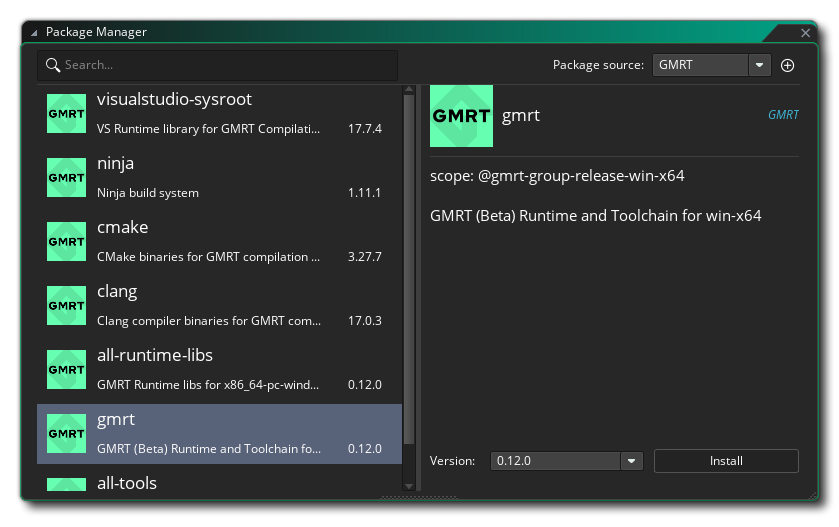
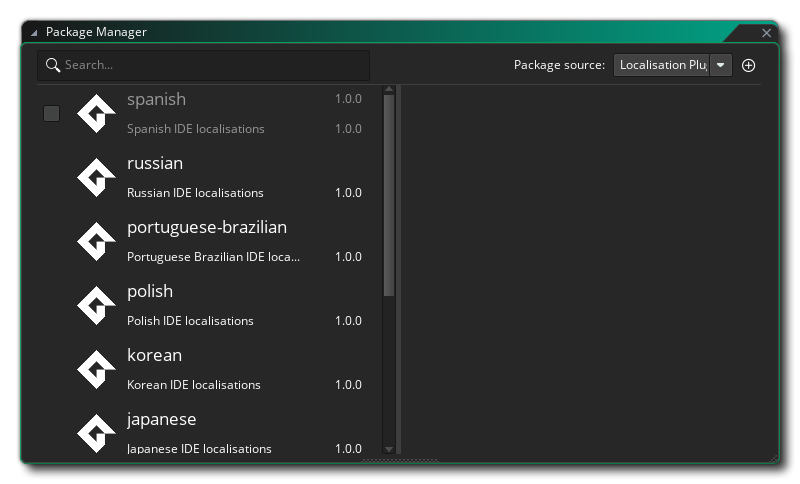
docs(feature): Marked package manager as non-beta https://github.com/YoYoGames/GameMaker-Manual/issues/219

Changed region(s): [[0.0, 0.031, 1.0, 0.9917], [0.9062, 0.186, 0.9375, 0.2479], [0.8438, 0.8678, 0.9062, 0.8988]]

diff --git a/Manual/contents/IDE_Tools/Project_Tool.htm b/Manual/contents/IDE_Tools/Project_Tool.htm
@@ -39,12 +39,12 @@
   <p>All <span data-field="title" data-format="default">Project Tool</span> output is shown in the Project Tool Window that you can open manually through the <strong>Project Tool Output</strong> option of <a data-xref="{title}" href="../IDE_Navigation/Menus/The_Windows_Menu.htm">The Windows Menu</a>. It can also automatically be shown when <span data-field="title" data-format="default">Project Tool</span> runs by enabling <strong>Show Project Tool Output</strong> in the <a data-xref="{title}" href="../Setting_Up_And_Version_Information/IDE_Preferences/General_Preferences.htm">General Preferences</a>.</p>
   <p><img alt="Project Tool Output" class="center" src="../assets/Images/IDE Tools/Project_Tool_Output.png" /></p>
   <h2 id="project_tool_versions"><span data-field="title" data-format="default">Project Tool</span> Versions</h2>
-  <p>Every IDE release comes bundled with a version of <span data-field="title" data-format="default">Project Tool</span>. While it should normally not be needed, the version used can be changed to a different one by providing a different path under <a href="../Setting_Up_And_Version_Information/IDE_Preferences/Plugin_Preferences.htm#path_to_project_tool">Path to Project Tool</a>.<span data-condition="Export:Beta"> The IDE will use the following version of <span data-field="title" data-format="default">Project Tool</span>, in order of preference:</span></p>
+  <p>Every IDE release comes bundled with a version of <span data-field="title" data-format="default">Project Tool</span>. While it should normally not be needed, the version used can be changed to a different one by providing a different path under <a href="../Setting_Up_And_Version_Information/IDE_Preferences/Plugin_Preferences.htm#path_to_project_tool">Path to Project Tool</a>.<span> The IDE will use the following version of <span data-field="title" data-format="default">Project Tool</span>, in order of preference:</span></p>
   <p><span data-condition="Export:Beta"> </span></p>
   <ol class="Decimal">
-    <li><span data-condition="Export:Beta">The version of <span data-field="title" data-format="default">Project Tool</span> in the location set in <strong>Preferences</strong> -&gt; <strong>General Settings</strong> -&gt; <strong>Paths</strong> -&gt; <strong>Path to Project Tool</strong></span></li>
-    <li><span data-condition="Export:Beta">Any version of <span data-field="title" data-format="default">Project Tool</span> installed via the <a data-xref="{title}" href="Package_Manager.htm">Package Manager</a> (in the location set in <strong>Preferences</strong> -&gt; <strong>Package Manager</strong> -&gt; <strong>Packages Install Directory</strong>)</span></li>
-    <li><span data-condition="Export:Beta">The <span data-field="title" data-format="default">Project Tool</span> bundled with this IDE version</span></li>
+    <li><span>The version of <span data-field="title" data-format="default">Project Tool</span> in the location set in <strong>Preferences</strong> -&gt; <strong>General Settings</strong> -&gt; <strong>Paths</strong> -&gt; <strong>Path to Project Tool</strong></span></li>
+    <li><span>Any version of <span data-field="title" data-format="default">Project Tool</span> installed via the <a data-xref="{title}" href="Package_Manager.htm">Package Manager</a> (in the location set in <strong>Preferences</strong> -&gt; <strong>Package Manager</strong> -&gt; <strong>Packages Install Directory</strong>)</span></li>
+    <li><span>The <span data-field="title" data-format="default">Project Tool</span> bundled with this IDE version</span></li>
   </ol>
   <p> </p>
   <p> </p>
@@ -52,7 +52,7 @@
     <div class="buttons">
       <div class="clear">
         <div>Back: <a data-xref="{title}" href="Additional_IDE_Tools.htm">Additional IDE Tools</a></div>
-        <div>Next: <a data-condition="Export:StableOnly" data-xref="{title}" href="The_Debugger.htm">The Debugger</a> <a data-condition="Export:Beta" data-xref="{title}" href="Package_Manager.htm">Package Manager</a></div>
+        <div>Next: <a data-xref="{title}" href="Package_Manager.htm">Package Manager</a></div>
       </div>
     </div>
     <h5><span data-conref="../assets/snippets/Copyright_Notice_AutoUpdate.hts"> </span></h5>

diff --git a/Manual/contents/Setting_Up_And_Version_Information/IDE_Preferences/Package_Manager_Preferences.htm b/Manual/contents/Setting_Up_And_Version_Information/IDE_Preferences/Package_Manager_Preferences.htm
@@ -11,7 +11,7 @@
   <meta name="topic-comment" content="The Package Manager Preferences" />
   <meta name="rh-index-keywords" content="Prefs - Splines" />
   <meta name="search-keywords" content="Spline Prefs,Spline Editor Prefs" />
-  <meta name="condition-tags" content="Export:Beta" />
+  <meta name="condition-tags" content="" />
 </head>
 <body>
   <!--<div class="body-scroll" style="top: 150px;">-->
@@ -19,13 +19,13 @@
   <p><img class="center" src="../../assets/Images/Setup_And_Version/Preferences/PackageManager_Prefs.png" /></p>
   <p>This contains preferences for the <a data-xref="{title}" href="../../IDE_Tools/Package_Manager.htm">Package Manager</a>:</p>
   <ul class="colour">
-    <li><strong>Packages Install Directory</strong>: The directory where packages are installed. The <a data-xref="{title}" href="GMRT_Preferences.htm">GMRT Preferences</a> should be set to look in this directory.</li>
+    <li><strong>Packages Install Directory</strong>: The directory where packages are installed.<span data-condition="Export:Beta"> The <a data-xref="{title}" href="GMRT_Preferences.htm">GMRT Preferences</a> should be set to look in this directory.</span></li>
     <li><strong>Default Source URL</strong>: The default package source.</li>
     <li><strong>NPM Path</strong>: Optional, if you want to use your own version of NPM.</li>
     <li><strong>Node Path</strong>: Optional, if you want to use your own version of Node.js.</li>
     <li><strong>Build Type</strong>: The build of the Package Manager to use.</li>
-    <li><strong>Target Triple</strong>: The build combination to get packages for, when using GMRT.</li>
-    <li><strong>Platform</strong>: The build platform to get packages for, when using GMRT.</li>
+    <li><strong>Target Triple</strong>: The build combination to get packages for<span data-condition="Export:Beta">, when using GMRT</span>.</li>
+    <li><strong>Platform</strong>: The build platform to get packages for<span data-condition="Export:Beta">, when using GMRT</span>.</li>
   </ul>
   <p> </p>
   <p> </p>

diff --git a/Manual/contents/IDE_Tools/Package_Manager.htm b/Manual/contents/IDE_Tools/Package_Manager.htm
@@ -12,12 +12,12 @@
   <meta name="rh-index-keywords" content="Project Tool" />
   <meta name="rh-authors" content="Gurpreet S. Matharoo" />
   <meta name="topic-comment" content="Page explaining the Package Manager" />
-  <meta name="condition-tags" content="Export:Beta" />
+  <meta name="condition-tags" content="" />
 </head>
 <body>
   <h1><span data-field="title" data-format="default">Package Manager</span></h1>
   <p><img class="center" src="../assets/Images/IDE Tools/PackageManager_Main.png" /></p>
-  <p>The Package Manager lets you install packages that <span data-keyref="GameMaker Name">GameMaker</span> can use during your game&#39;s compilation. This is currently used for packages required for <a data-xref="{title}" href="../Settings/Runner_Details/GMRT_(GameMaker_Runtime).htm">GMRT (GameMaker Runtime)</a>.</p>
+  <p>The Package Manager lets you install packages that <span data-keyref="GameMaker Name">GameMaker</span> can use for the IDE and during your game&#39;s compilation. <span data-condition="Export:Beta">This is also used for packages required for <a data-xref="{title}" href="../Settings/Runner_Details/GMRT_(GameMaker_Runtime).htm">GMRT (GameMaker Runtime)</a>.</span></p>
   <p>The list on the left will show you all packages from the selected source, and clicking on a package will show its information on the right, where you can choose a version for the package and install it.</p>
   <p>In the top-left corner you can search for a package, and in the top-right corner you can change the source for the packages from a drop-down menu.</p>
   <h3>Package Sources</h3>

diff --git a/Manual/contents/Setting_Up_And_Version_Information/IDE_Preferences.htm b/Manual/contents/Setting_Up_And_Version_Information/IDE_Preferences.htm
@@ -55,8 +55,9 @@
     <li><a href="IDE_Preferences/Inspector_Preferences.htm">Inspector</a></li>
     <li><a href="IDE_Preferences/Particle_Editor_Preferences.htm">Particle Editor</a></li>
     <li><a href="IDE_Preferences/Sequences_Preferences.htm">Sequences Editor</a></li>
+    <li><a data-xref="{title}" href="IDE_Preferences/Package_Manager_Preferences.htm">Package Manager Preferences</a></li>
   </ul>
-  <p><span data-condition="Export:Beta">Beta versions of <span data-keyref="GameMaker Name">GameMaker</span> starting with 2024.800+ will also contain <a data-xref="{title}" href="IDE_Preferences/GMRT_Preferences.htm">GMRT Preferences</a> and </span><span data-condition="Export:Beta"></span><span data-condition="Export:Beta"><a data-xref="{title}" href="IDE_Preferences/Package_Manager_Preferences.htm">Package Manager Preferences</a>.</span></p>
+  <p><span data-condition="Export:Beta">Beta versions of <span data-keyref="GameMaker Name">GameMaker</span> starting with 2024.800+ will also contain <a data-xref="{title}" href="IDE_Preferences/GMRT_Preferences.htm">GMRT Preferences</a></span><span data-condition="Export:Beta">.</span></p>
   <p> </p>
   <p> </p>
   <p> </p>

diff --git a/Manual/contents/Setting_Up_And_Version_Information/IDE_Preferences/Sequences_Preferences.htm b/Manual/contents/Setting_Up_And_Version_Information/IDE_Preferences/Sequences_Preferences.htm
@@ -57,7 +57,7 @@
     <div class="buttons">
       <div class="clear">
         <div style="float:left">Back: <a href="../IDE_Preferences.htm">IDE Preferences</a></div>
-        <div style="float:right">Next: <span data-condition="Export:StableOnly"><a href="General_Preferences.htm">General Preferences</a></span> <a data-condition="Export:Beta" data-xref="{title}" href="GMRT_Preferences.htm">GMRT Preferences</a></div>
+        <div style="float:right">Next: <a data-condition="Export:StableOnly" data-xref="{title}" href="Package_Manager_Preferences.htm">Package Manager Preferences</a> <a data-condition="Export:Beta" data-xref="{title}" href="GMRT_Preferences.htm">GMRT Preferences</a></div>
       </div>
     </div>
     <h5><span data-keyref="Copyright Notice">© Copyright YoYo Games Ltd. 2024 All Rights Reserved</span></h5>

diff --git a/Manual/contents/IDE_Tools/Additional_IDE_Tools.htm b/Manual/contents/IDE_Tools/Additional_IDE_Tools.htm
@@ -24,8 +24,8 @@
     <li><a data-xref="{title}" href="Sound_Mixer.htm">Sound Mixer</a></li>
     <li><a data-xref="{title}" href="Source_Control.htm">Source Control</a></li>
     <li><a data-xref="{title}" href="Project_Tool.htm">Project Tool</a></li>
+    <li><a data-xref="{title}" href="Package_Manager.htm">Package Manager</a></li>
   </ul>
-  <p><span data-condition="Export:Beta">Beta versions starting with 2024.800+ will also contain the <a data-xref="{title}" href="Package_Manager.htm">Package Manager</a>.</span></p>
   <p> </p>
   <p> </p>
   <div class="footer">
